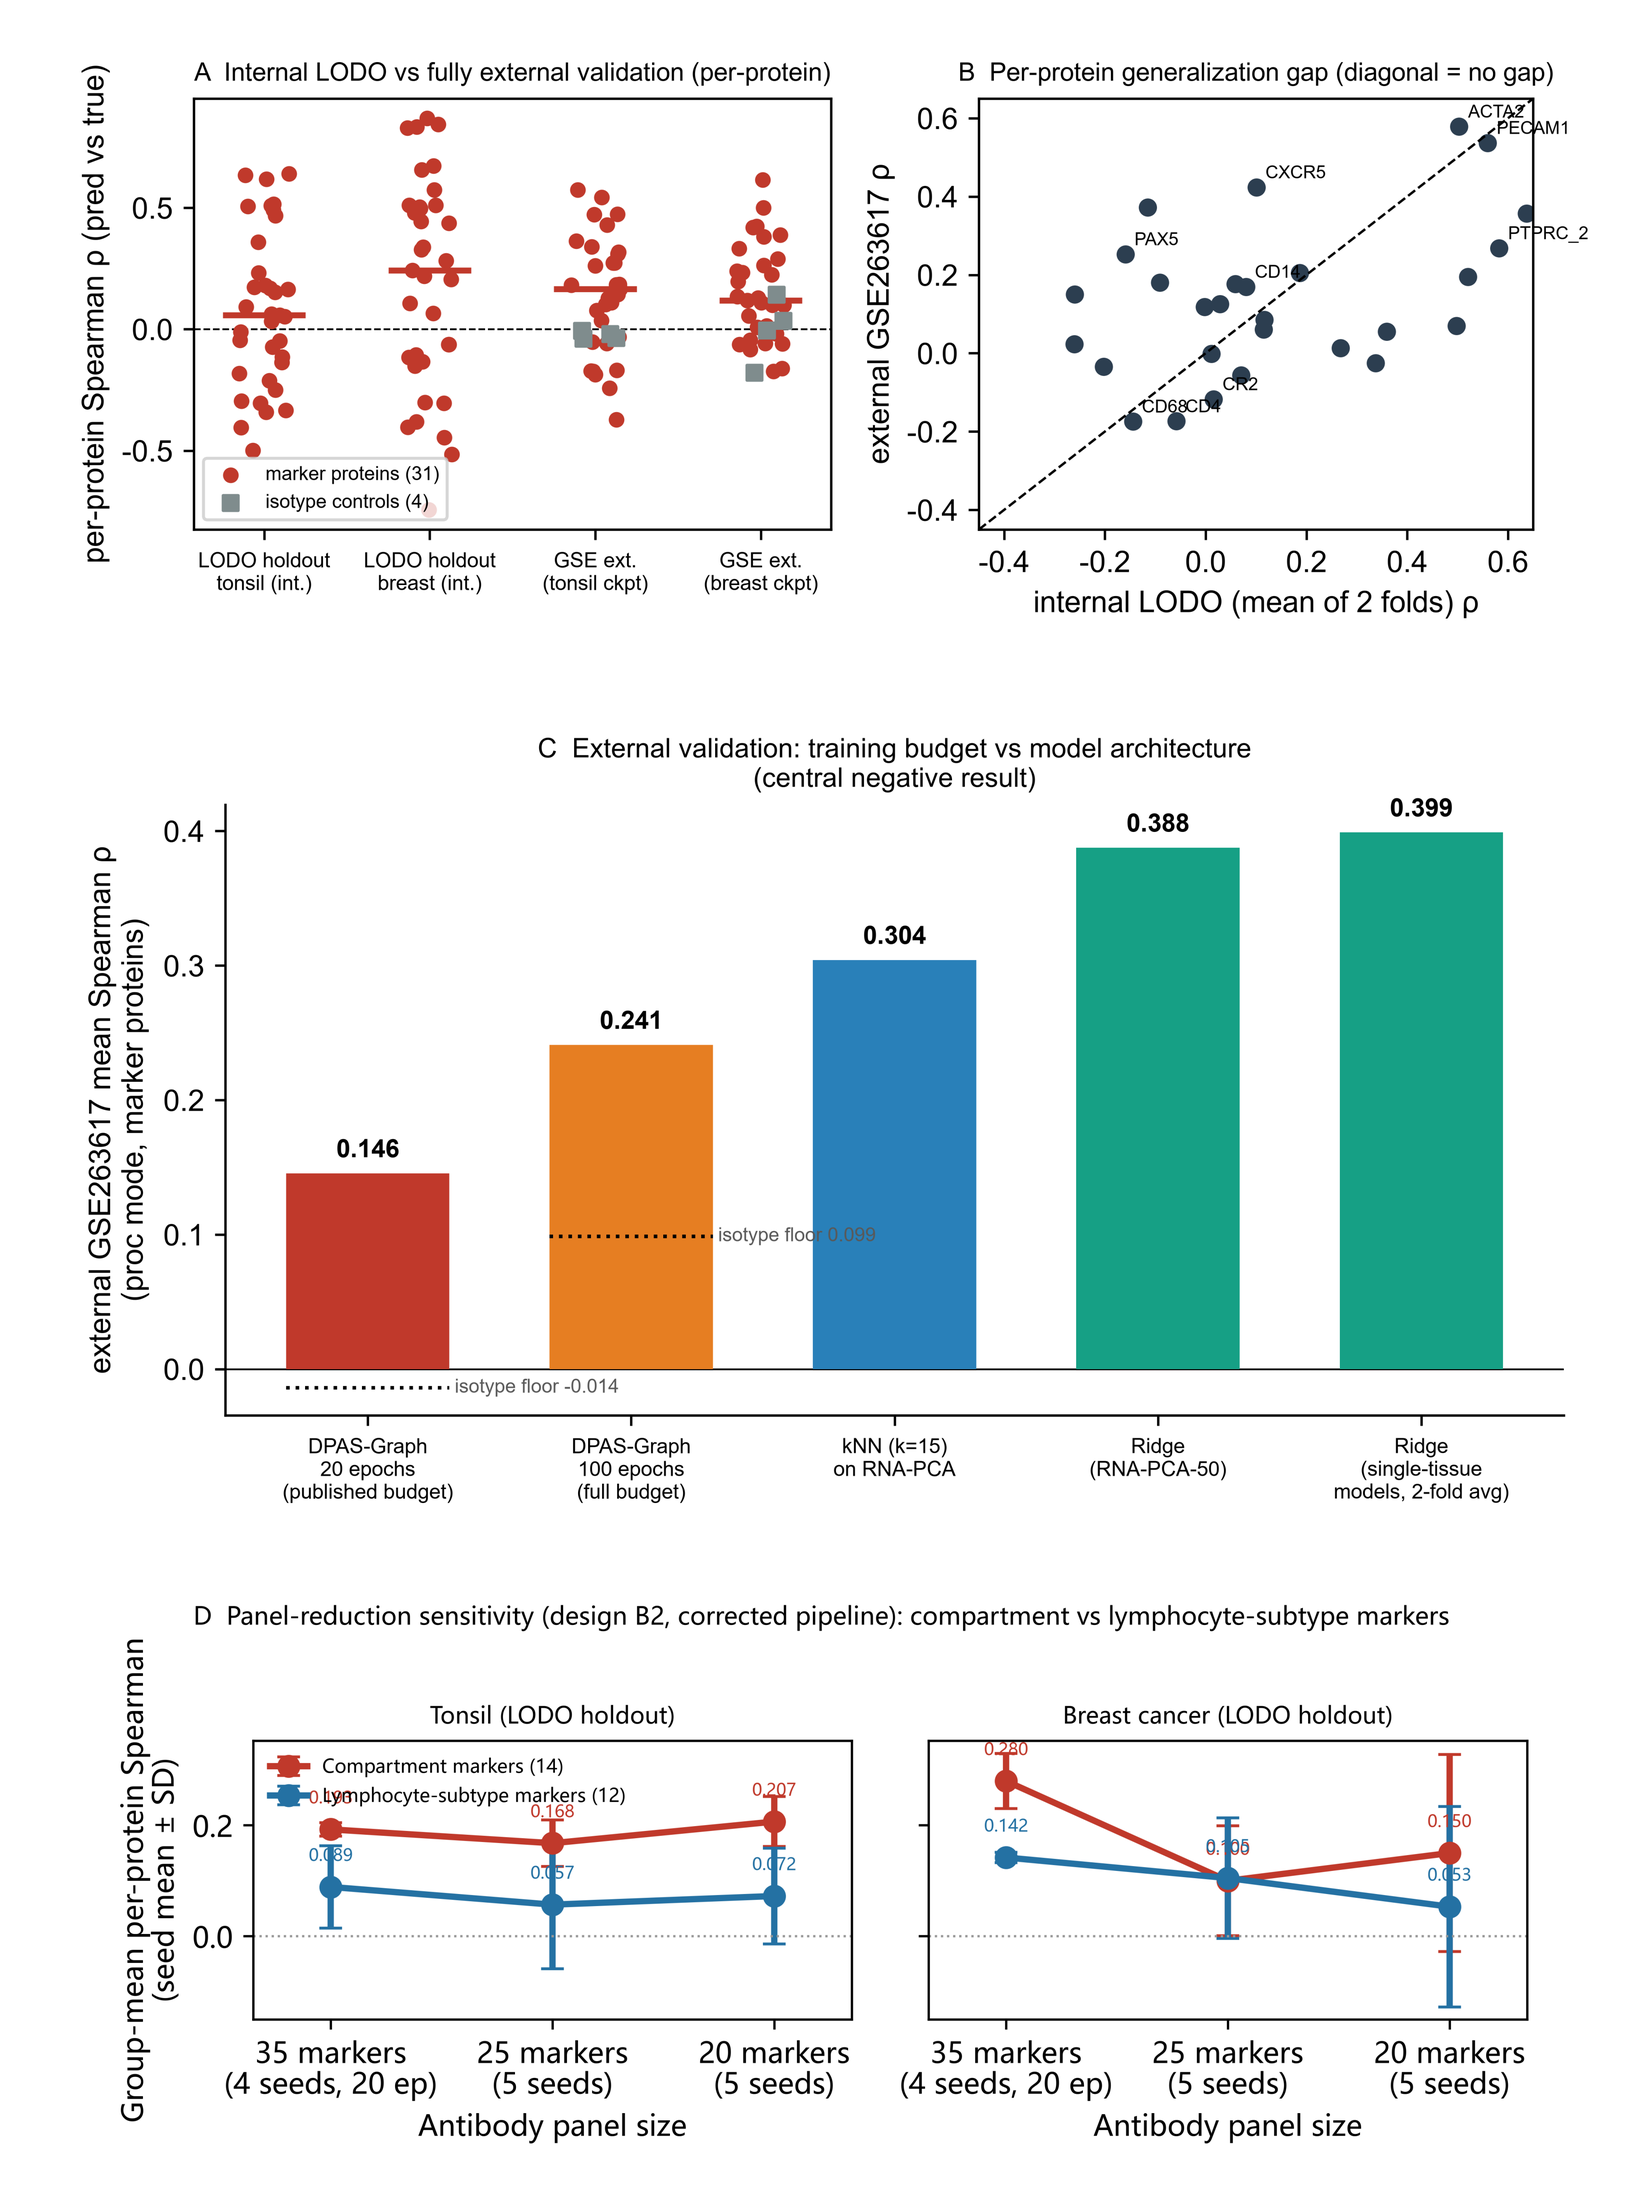
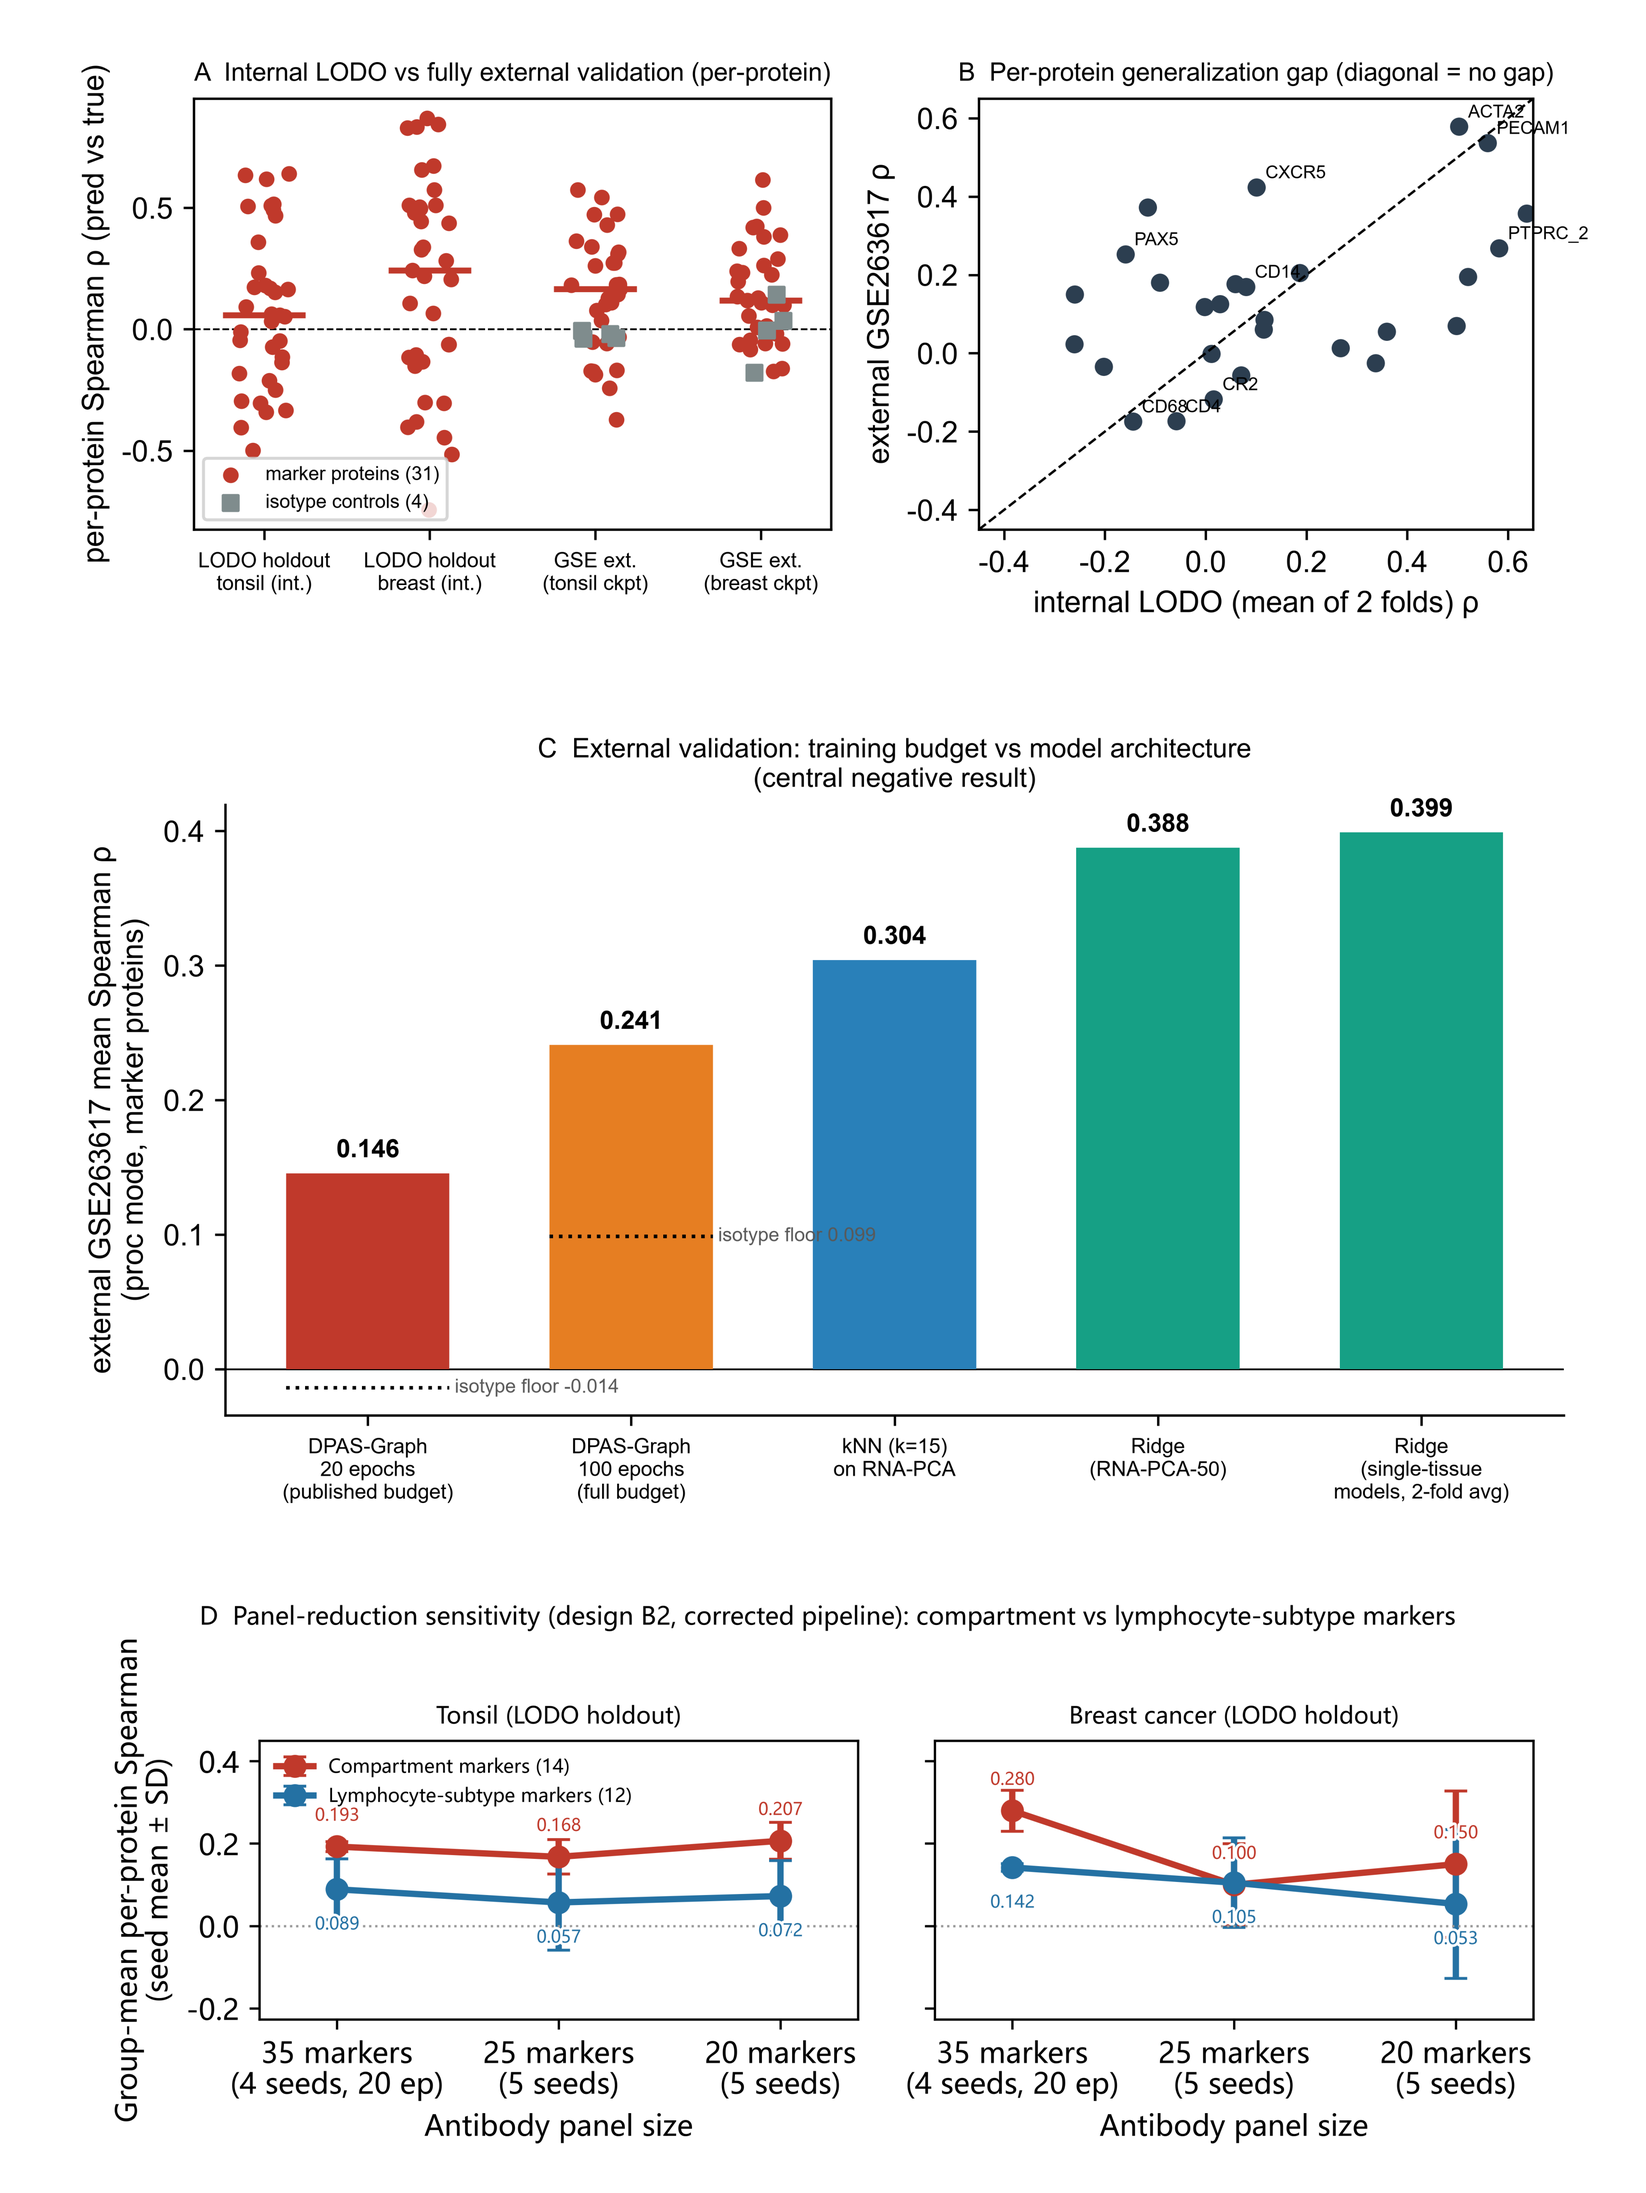
Figure 1 panel D rendering fix: value labels moved off the lines (compartment above, lymphocyte-subtype below) with white halo; extra headroom. No data change; all six group means reproduce identically

diff --git a/scripts/make_fig1c.py b/scripts/make_fig1c.py
@@ -14,6 +14,7 @@ import pandas as pd
 import matplotlib
 matplotlib.use("Agg")
 import matplotlib.pyplot as plt
+import matplotlib.patheffects as pe
 
 matplotlib.rcParams["font.sans-serif"] = ["Microsoft YaHei", "SimHei", "DejaVu Sans"]
 matplotlib.rcParams["axes.unicode_minus"] = False
@@ -81,12 +82,16 @@ for ax, (title, fold) in zip(axes, FOLDS):
         s = s.sort_values("x")
         yerr = s["std"].to_numpy(dtype=float).copy()
         yerr[np.isnan(yerr)] = 0.0
+        # 标签避线：红（区室，线在上）放点上方，蓝（淋巴亚型）放点下方；白色描边垫底防穿透
+        off = (0, 9) if gname == "compartment" else (0, -14)
+        halo = [pe.withStroke(linewidth=1.8, foreground="white")]
         ax.errorbar(s.x, s.sp_mean, yerr=yerr, marker="o", ms=7, lw=2.2,
                     capsize=4, color=colors[gname], label=labels[gname])
         for _, r in s.iterrows():
             ax.annotate(f"{r.sp_mean:.3f}", (r.x, r.sp_mean),
-                        textcoords="offset points", xytext=(0, 9),
-                        ha="center", fontsize=6, color=colors[gname])
+                        textcoords="offset points", xytext=off,
+                        ha="center", fontsize=6, color=colors[gname],
+                        path_effects=halo, zorder=6)
     ax.axhline(0, color="#999999", lw=0.8, ls=":")
     ax.set_xticks([0, 1, 2])
     ax.set_xticklabels(["35 markers\n(4 seeds, 20 ep)",
@@ -94,6 +99,12 @@ for ax, (title, fold) in zip(axes, FOLDS):
     ax.set_title(title, fontsize=8)
     ax.set_xlabel("Antibody panel size")
     ax.set_xlim(-0.35, 2.35)
+    # 上下留白，保证标签和图例不顶到边框
+    ymax = (stat[stat.fold == fold]["sp_mean"] +
+            stat[stat.fold == fold]["std"].fillna(0)).max()
+    ymin = (stat[stat.fold == fold]["sp_mean"] -
+            stat[stat.fold == fold]["std"].fillna(0)).min()
+    ax.set_ylim(ymin - 0.10, ymax + 0.12)
 
 axes[0].set_ylabel("Group-mean per-protein Spearman\n(seed mean ± SD)")
 axes[0].legend(loc="upper left", fontsize=6.5, frameon=False)
